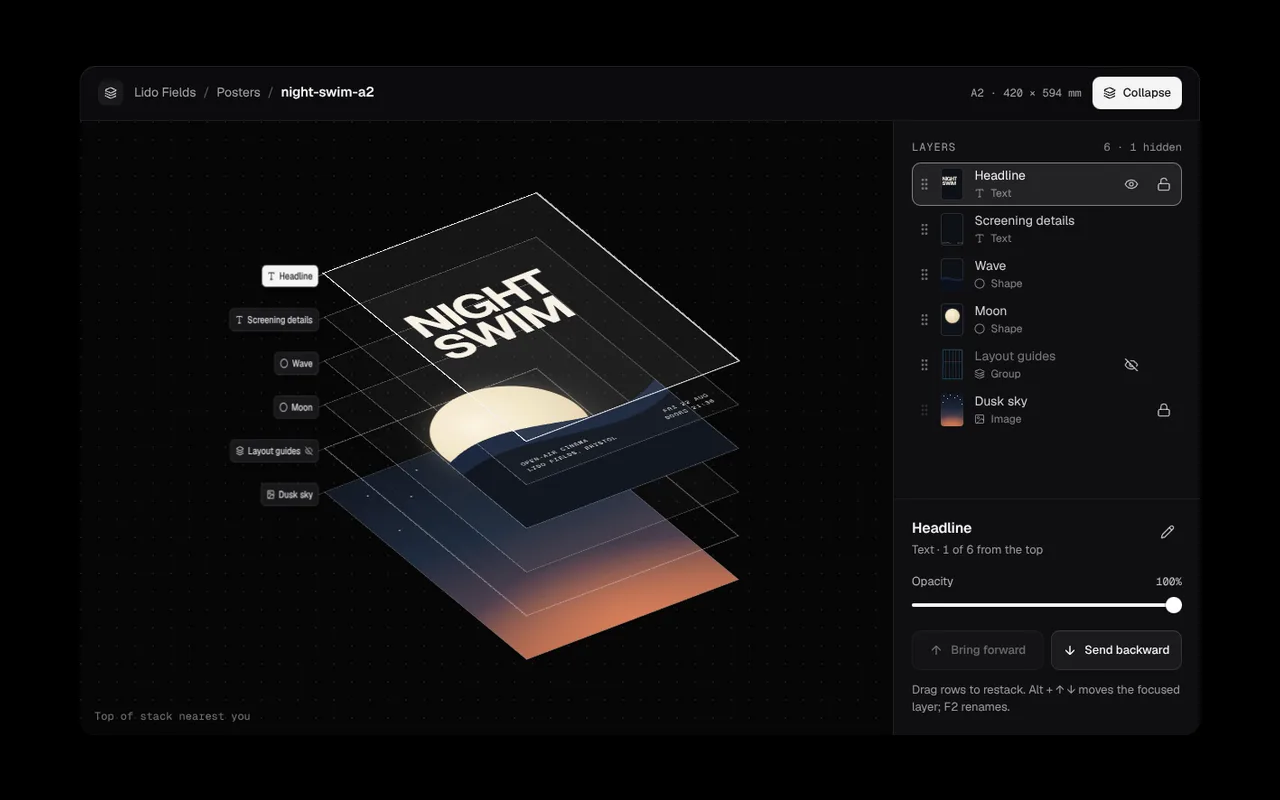
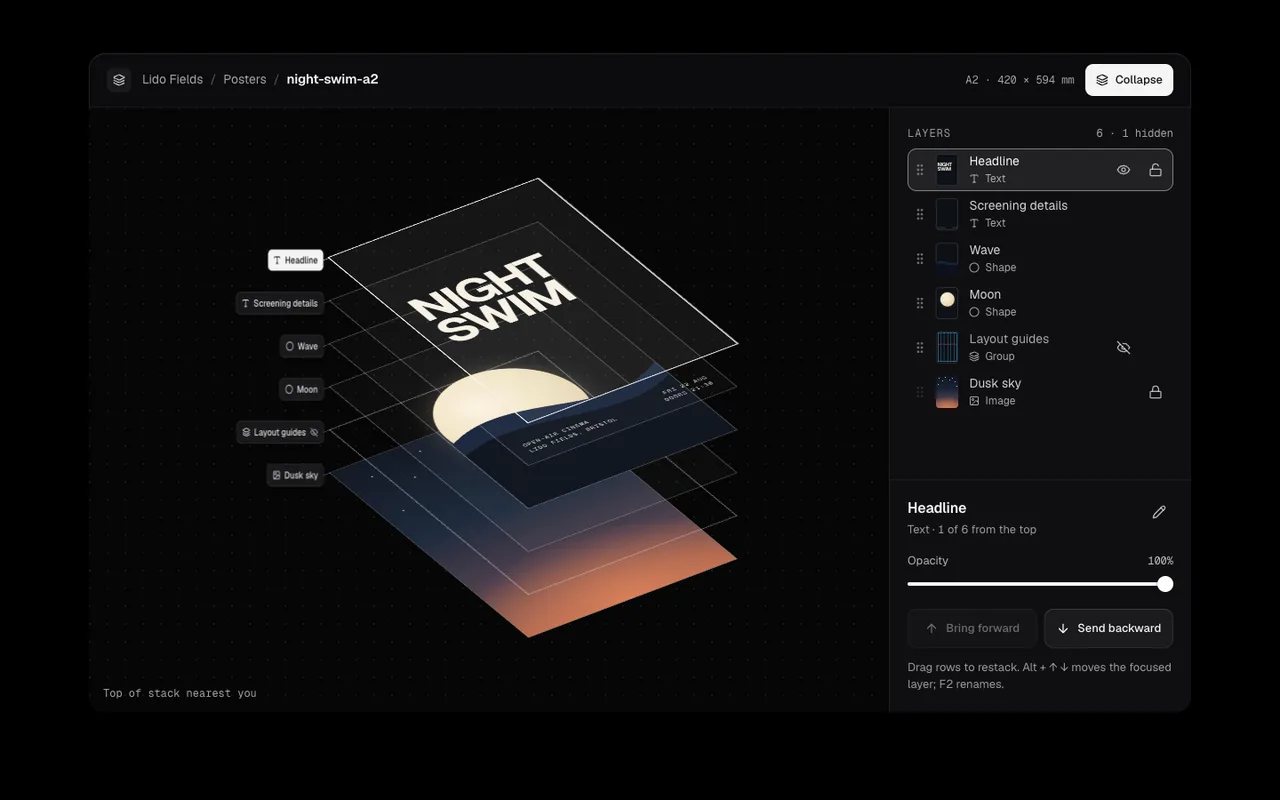
Verify layer editing, exploded artwork and readable layer labels

diff --git a/docs/review/STATUS.md b/docs/review/STATUS.md
@@ -73,7 +73,7 @@ See [the handoff checkpoint](HANDOFF_TASKS.md#8-final-release-checks) for revisi
 | `editor-export-preset` | current | current | Next-backed pointer/keyboard, exact export, failure/retry, pending locks, empty/invalid options and retired-layer regression pass. Both-theme accessibility, six widths, entrance/state captures, five controls, official audit and refreshed poster pass; reviewed 5.3s reshape/comparison/export film and matching poster are current. |
 | `editor-font-pairing` | current | current | Next-backed keyboard/exact-CSS/retry/pending/newer-draft/mutation/empty-catalogue regression passes. Missing writers stay unavailable, and the labelled specimen supports keyboard scrolling. The 27-mount source review, 16 state/default accessibility audits, six widths, entrance/state captures, four controls, official audit and metadata replay pass. The initial 10.5px clipping failure is retained; matching 900px stage/preview heights, complete framing and refreshed poster pass. Strict registry, TypeScript, isolated Pro types and all 1,063 unit tests pass. Reviewed 6.2s face/scale/highlight/applied film and paired poster are current; all recording guards pass. |
 | `editor-keyframe-track` | current | current | Next-backed exact-hold/keyboard/drag-commit/copied-payload/add-delete/playback/empty/invalid-clock regression passes. Overlapping phone targets are fixed with a contained timeline, 44px coarse-pointer targets and independent Home/End/arrow panning. Original failures are retained. The 35-mount source review, 28 state/default accessibility audits, six widths, entrance/state captures, five controls, official audit, actual-edit metadata replay and complete 880px framing/poster pass. Strict registry, TypeScript, isolated Pro types and all 1,063 unit tests pass. Reviewed 5.05s playback/curve-edit/selected-key film and paired poster are current; all recording guards pass. |
-| `editor-layer-stack` | new | current |  |
+| `editor-layer-stack` | new | current | Next-backed pointer/keyboard/reorder/rename/visibility-retry/copied-bounds/read-only/empty/duplicate regression passes. Proposals preserve the actual rollback frame, and selection immediately retires the previous inspector. Its 29-mount source review, 18 state/default accessibility audits, six widths, entrance/state captures, four controls, official audit and complete 900px replay/poster pass. The exploded-stage caption now meets 7.84:1 dark and 5.64:1 light in a direct contrast regression; the original failure is retained. Metadata replay requires Moon to move above Wave and collapse. Strict registry, TypeScript, isolated Pro types and all 1,063 unit tests pass. |
 | `editor-spacing-inspector` | current | current | Next-backed pointer/keyboard/linked-padding/snap/exact-layout/clipboard-retry/stale-reply/mutation/empty/invalid regression passes. Its 27-mount source review, 14 state/default accessibility audits, six widths, entrance/state captures, five controls, official audit and metadata replay pass; the replay requires a real padding increase. The initial 60.7px clipping failure is retained; matching 960px stage/preview heights, complete framing and refreshed poster pass. Strict registry, TypeScript, isolated Pro types and all 1,063 unit tests pass. Reviewed 4.6s padding/row/alignment film and paired poster are current; all recording guards pass. |
 | `editor-storyboard-strip` | new | current |  |
 | `editor-version-restore` | new | current |  |

diff --git a/docs/review/HANDOFF_TASKS.md b/docs/review/HANDOFF_TASKS.md
@@ -283,6 +283,8 @@ and how to know it's done. Pick any of them up independently. Background, briefs
 
 - Task 1: Keyframe Track now has a reviewed 5.05s film showing real playback, a curve-key drag and the settled selected key. Complete 880px framing matches its paired opening poster. Maximum source gap is 13ms, changed-source delivery is 18.2ms and moving-frame p95 is 17.6ms, with no stalls and all guards retained. 117 listed films remain.
 
+- Task 5: Layer Stack now covers real drag/reorder, keyboard bounds and rename cancellation, visibility failure/retry, exact copied proposals, locked/read-only layers, empty/duplicate ids and the actual exploded/flat artwork view. Callback mutation cannot change the incoming numeric bounds or rollback frame; selection immediately retires the previous inspector. Hidden names, layer kinds and counts retain contrast. A preserved 4.17:1 dotted-stage caption failure now measures 7.84:1 dark and 5.64:1 light with a direct regression assertion. Its 29-mount source review, 18 state/default accessibility audits, six widths, entrance/state captures, Next regression, four controls, official audit and complete 900px replay/poster pass. The metadata replay verifies Moon actually moves above Wave before collapsing. Strict registry, TypeScript, isolated Pro types and all 1,063 unit tests pass. 63 components remain without dedicated coverage; its film remains in task 1.
+
 ## Ground rules (read first)
 
 - Two repos. Public: `richawo/Design-components-for-AI-agents` (this one). Pro: `richawo/Design-for-AI`, private, cloned
@@ -406,14 +408,13 @@ Its log is `test-results/handoff-next/browser-suite-green.log`.
 
 ## 5. Write browser probes for components that have none
 
-64 finished components still have no dedicated browser regression probe. For each, read its source and
+63 finished components still have no dedicated browser regression probe. For each, read its source and
 `meta.json`, then add a case to the appropriate `tests/browser/*.mjs` suite (or a new probe registered in
 `scripts/test-components.mjs`) covering: the signature interaction, keyboard paths, failed-then-successful callbacks
 with drafts kept (where it has async callbacks), and empty or invalid data. Use `tests/browser/pro-50/hr-org-explorer.mjs`
 as the model for style and depth. Mobile components render through React Native web (`scripts/lib/component-fixture.mjs` aliases it);
 see `tests/browser/mobile-accessibility-probe.mjs` for a native example.
 
-`editor-layer-stack`
 `editor-storyboard-strip`, `editor-version-restore`, `three-exploded-assembly`
 `three-material-inspector`, `agents-budget-guard`, `agents-dependency-board`, `agents-run-replay`
 `ai-answer-compare`, `ai-context-budget`, `ai-structured-output`, `auth-recovery-codes`, `devtools-icon-workbench`
